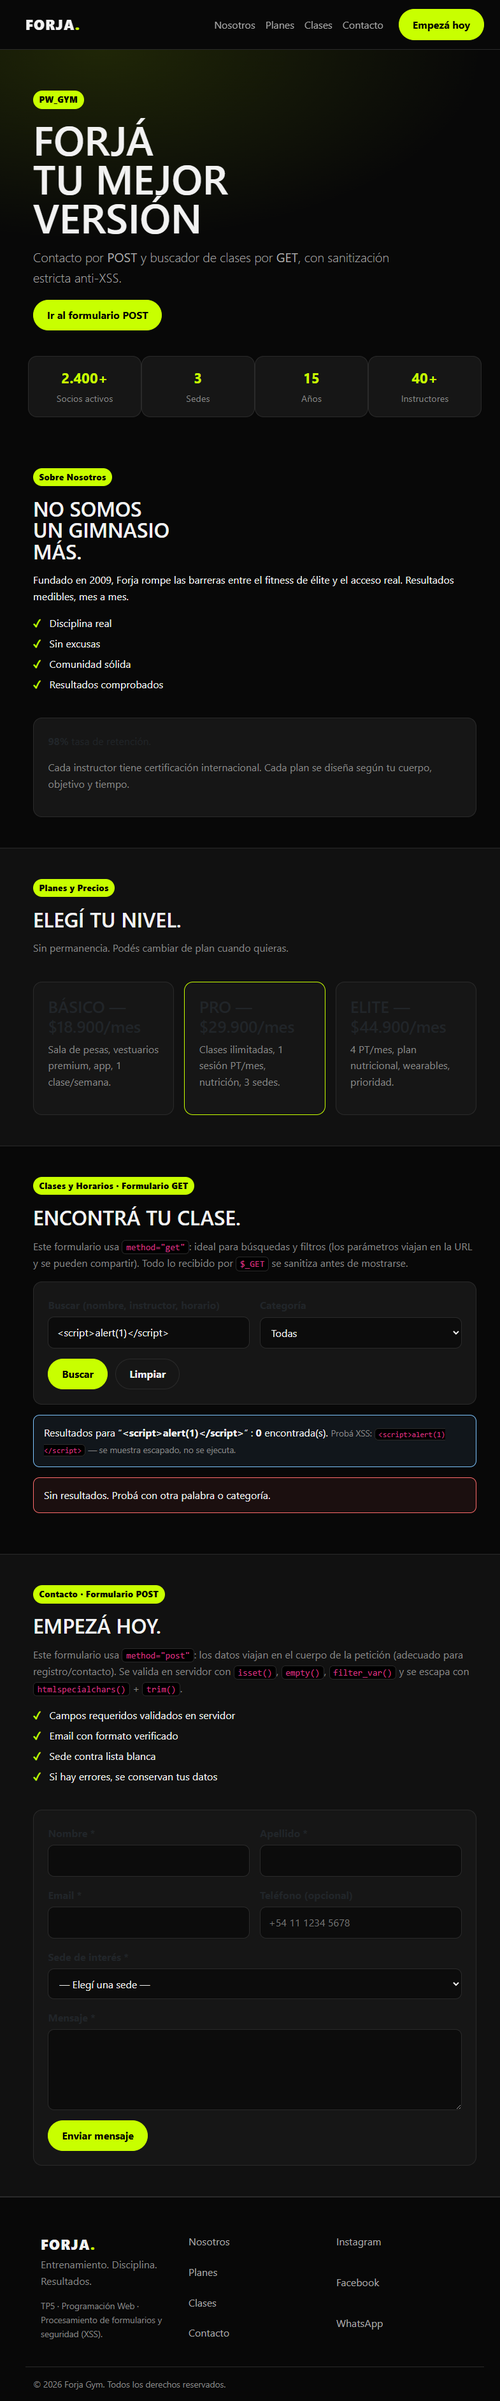
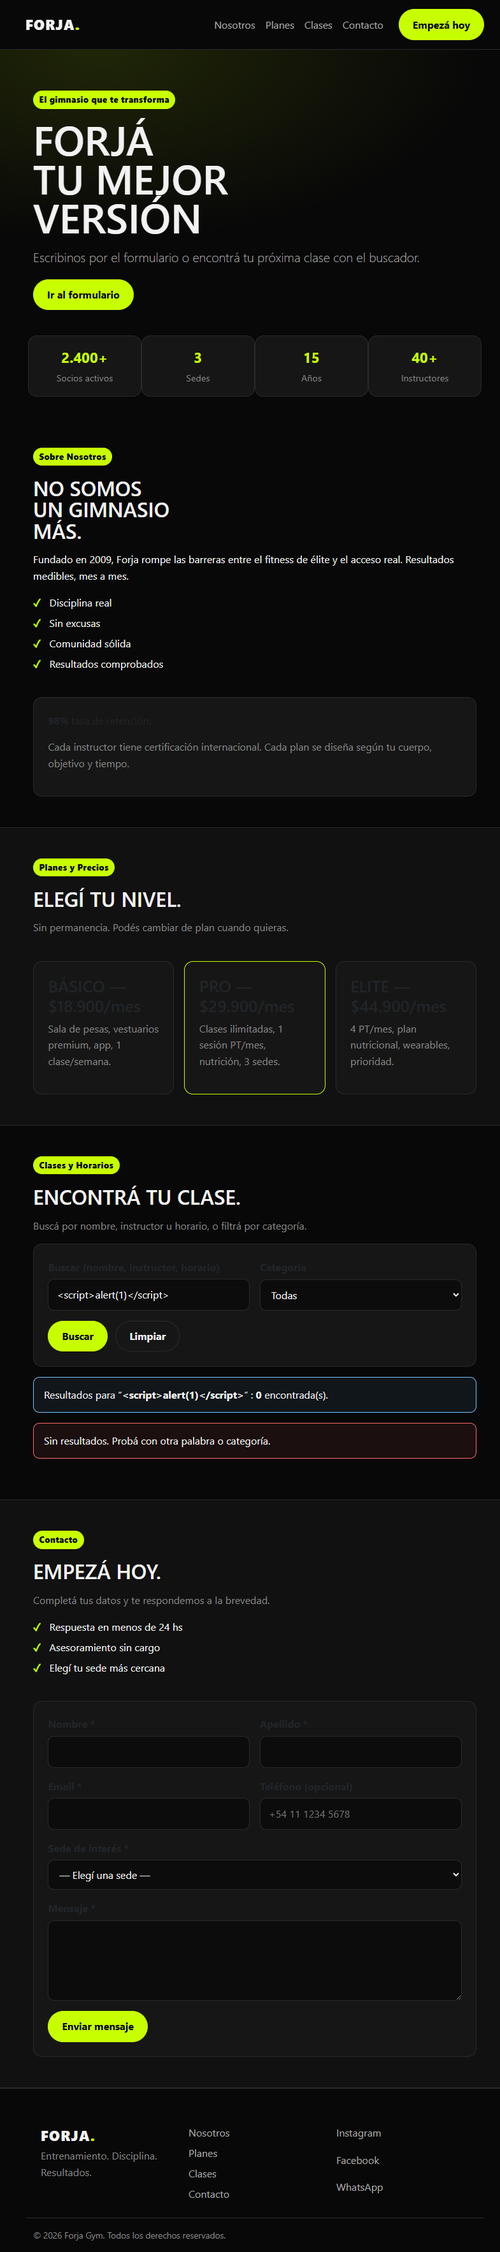
fix: textos solo para cliente, filtro de clases funcional y cercas html

diff --git a/index.html b/index.html
@@ -1,1 +1,1 @@
-```html<!DOCTYPE html><html lang="es"><head>    <meta charset="UTF-8">    <meta name="viewport" content="width=device-width, initial-scale=1.0">    <title>Forja Gym</title></head><body>    <header>        <div>            <div>                <span>FORJA.</span>            </div>            <nav>                <a href="#nosotros">Nosotros</a>                <a href="#planes">Planes</a>                <a href="#clases">Clases</a>                <a href="#sedes">Sedes</a>                <a href="#contacto">Contacto</a>                <button>Empezá hoy</button>            </nav>            <button>☰</button>        </div>        <nav>            <a href="#nosotros">Nosotros</a>            <a href="#planes">Planes</a>            <a href="#clases">Clases</a>            <a href="#sedes">Sedes</a>            <a href="#contacto">Contacto</a>            <button>Empezá hoy</button>        </nav>    </header>    <main>        <section id="inicio">            <div>                <span>El gimnasio que te transforma</span>                <h1>                    FORJÁ<br>                    TU<br>                    MEJOR<br>                    VERSIÓN                </h1>                <p>                    Más de 15 años construyendo atletas.                    Entrenamiento de élite, nutrición personalizada                    y tecnología al servicio de tu progreso.                </p>                <div>                    <button>Empezá hoy</button>                    <button>Ver planes</button>                </div>                <div>                    <div>                        <strong>2.400+</strong>                        <span>Socios activos</span>                    </div>                    <div>                        <strong>3</strong>                        <span>Sedes</span>                    </div>                    <div>                        <strong>15</strong>                        <span>Años de experiencia</span>                    </div>                    <div>                        <strong>40+</strong>                        <span>Instructores</span>                    </div>                </div>            </div>            <div>                <span>Scroll</span>            </div>        </section>        <section>            <div>                <span>Funcional</span>                <span>CrossFit</span>                <span>Spinning</span>                <span>Boxing</span>                <span>Yoga</span>                <span>Pilates</span>                <span>HIIT</span>                <span>Musculación</span>            </div>        </section>        <section id="nosotros">            <div>                <div>                    <span>Sobre Nosotros</span>                    <h2>                        NO SOMOS<br>                        UN GIMNASIO<br>                        MÁS.                    </h2>                    <p>                        Fundado en 2009, Forja nació con una misión clara:                        romper las barreras entre el fitness de élite y                        el acceso real.                    </p>                    <p>                        No prometemos milagros — entregamos resultados                        medibles, mes a mes.                    </p>                    <p>                        Cada instructor tiene certificación internacional                        y experiencia en competencia. Cada plan está                        diseñado en función de tu cuerpo, tu objetivo                        y tu tiempo.                    </p>                    <ul>                        <li>Disciplina real</li>                        <li>Sin excusas</li>                        <li>Comunidad sólida</li>                        <li>Resultados comprobados</li>                    </ul>                    <button>                        Conocé nuestra historia                    </button>                </div>                <div>                    <img                        src="imagen-atleta.jpg"                        alt="Atleta entrenando"                    >                    <div>                        <strong>98%</strong>                        <span>Tasa de retención</span>                    </div>                </div>            </div>        </section>        <section id="planes">            <div>                <div>                    <span>Planes y Precios</span>                    <h2>                        ELEGÍ<br>                        TU NIVEL.                    </h2>                    <p>                        Sin contratos de permanencia.                        Podés cambiar de plan en cualquier momento.                    </p>                </div>                <article>                    <header>                        <div>                            <h3>BÁSICO</h3>                            <p>Todo lo esencial para comenzar</p>                        </div>                        <div>                            <strong>$18.900</strong>                            <span>/mes</span>                        </div>                    </header>                    <ul>                        <li>Acceso libre sala de pesas</li>                        <li>Vestuarios premium</li>                        <li>App de seguimiento</li>                        <li>1 clase grupal/semana</li>                    </ul>                    <button>                        Elegir Básico                    </button>                </article>                <article>                    <span>Más popular</span>                    <header>                        <div>                            <h3>PRO</h3>                            <p>El plan favorito de nuestros socios</p>                        </div>                        <div>                            <strong>$29.900</strong>                            <span>/mes</span>                        </div>                    </header>                    <ul>                        <li>Todo lo del plan Básico</li>                        <li>Clases grupales ilimitadas</li>                        <li>1 sesión PT/mes</li>                        <li>Asesoría nutricional</li>                        <li>Acceso a las 3 sedes</li>                    </ul>                    <button>                        Elegir Pro                    </button>                </article>                <article>                    <header>                        <div>                            <h3>ELITE</h3>                            <p>Para quienes van en serio</p>                        </div>                        <div>                            <strong>$44.900</strong>                            <span>/mes</span>                        </div>                    </header>                    <ul>                        <li>Todo lo del plan Pro</li>                        <li>4 sesiones PT/mes</li>                        <li>Plan nutricional personalizado</li>                        <li>Integración wearables</li>                        <li>Acceso prioritario</li>                    </ul>                    <button>                        Elegir Elite                    </button>                </article>            </div>        </section>        <section id="clases">            <div>                <span>Clases y Horarios</span>                <h2>                    ENCONTRÁ<br>                    TU CLASE.                </h2>                <div>                    <button>Funcional</button>                    <button>Spinning</button>                    <button>CrossFit</button>                    <button>Yoga</button>                    <button>Boxing</button>                    <button>Pilates</button>                </div>                <div>                    <article>                        <h3>Funcional</h3>                        <p>Lunes - 09:00</p>                        <p>Instructor: Nombre</p>                    </article>                    <article>                        <h3>Funcional</h3>                        <p>Martes - 18:00</p>                        <p>Instructor: Nombre</p>                    </article>                    <article>                        <h3>CrossFit</h3>                        <p>Miércoles - 19:00</p>                        <p>Instructor: Nombre</p>                    </article>                    <article>                        <h3>Spinning</h3>                        <p>Jueves - 18:30</p>                        <p>Instructor: Nombre</p>                    </article>                </div>            </div>        </section>        <section id="sedes">            <div>                <span>Nuestras Sedes</span>                <h2>                    ENCONTRÁ<br>                    TU FORJA.                </h2>                <div>                    <article>                        <h3>Forja Centro</h3>                        <p>                            Dirección de la sede                        </p>                        <p>                            Lunes a Viernes: 06:00 - 23:00                        </p>                        <p>                            Sábados: 08:00 - 20:00                        </p>                        <button>                            Ver ubicación                        </button>                    </article>                    <article>                        <h3>Forja Norte</h3>                        <p>                            Dirección de la sede                        </p>                        <p>                            Lunes a Viernes: 06:00 - 23:00                        </p>                        <p>                            Sábados: 08:00 - 20:00                        </p>                        <button>                            Ver ubicación                        </button>                    </article>                    <article>                        <h3>Forja Sur</h3>                        <p>                            Dirección de la sede                        </p>                        <p>                            Lunes a Viernes: 06:00 - 23:00                        </p>                        <p>                            Sábados: 08:00 - 20:00                        </p>                        <button>                            Ver ubicación                        </button>                    </article>                </div>            </div>        </section>        <section id="contacto">            <div>                <span>Contacto</span>                <h2>                    EMPEZÁ<br>                    HOY.                </h2>                <p>                    Estamos listos para ayudarte a alcanzar                    tus objetivos.                </p>                <form>                    <div>                        <label for="nombre">Nombre</label>                        <input                            type="text"                            id="nombre"                            name="nombre"                        >                    </div>                    <div>                        <label for="email">Email</label>                        <input                            type="email"                            id="email"                            name="email"                        >                    </div>                    <div>                        <label for="telefono">Teléfono</label>                        <input                            type="tel"                            id="telefono"                            name="telefono"                        >                    </div>                    <div>                        <label for="mensaje">Mensaje</label>                        <textarea                            id="mensaje"                            name="mensaje"                        ></textarea>                    </div>                    <button type="submit">                        Enviar mensaje                    </button>                </form>            </div>        </section>    </main>    <footer>        <div>            <div>                <strong>FORJA.</strong>                <p>                    Entrenamiento. Disciplina. Resultados.                </p>            </div>            <nav>                <a href="#nosotros">Nosotros</a>                <a href="#planes">Planes</a>                <a href="#clases">Clases</a>                <a href="#sedes">Sedes</a>                <a href="#contacto">Contacto</a>            </nav>            <div>                <p>Instagram</p>                <p>Facebook</p>                <p>WhatsApp</p>            </div>        </div>        <div>            <p>                © 2026 Forja Gym. Todos los derechos reservados.            </p>        </div>    </footer></body></html>```
+<!DOCTYPE html><html lang="es"><head>    <meta charset="UTF-8">    <meta name="viewport" content="width=device-width, initial-scale=1.0">    <title>Forja Gym</title></head><body>    <header>        <div>            <div>                <span>FORJA.</span>            </div>            <nav>                <a href="#nosotros">Nosotros</a>                <a href="#planes">Planes</a>                <a href="#clases">Clases</a>                <a href="#sedes">Sedes</a>                <a href="#contacto">Contacto</a>                <button>Empezá hoy</button>            </nav>            <button>☰</button>        </div>        <nav>            <a href="#nosotros">Nosotros</a>            <a href="#planes">Planes</a>            <a href="#clases">Clases</a>            <a href="#sedes">Sedes</a>            <a href="#contacto">Contacto</a>            <button>Empezá hoy</button>        </nav>    </header>    <main>        <section id="inicio">            <div>                <span>El gimnasio que te transforma</span>                <h1>                    FORJÁ<br>                    TU<br>                    MEJOR<br>                    VERSIÓN                </h1>                <p>                    Más de 15 años construyendo atletas.                    Entrenamiento de élite, nutrición personalizada                    y tecnología al servicio de tu progreso.                </p>                <div>                    <button>Empezá hoy</button>                    <button>Ver planes</button>                </div>                <div>                    <div>                        <strong>2.400+</strong>                        <span>Socios activos</span>                    </div>                    <div>                        <strong>3</strong>                        <span>Sedes</span>                    </div>                    <div>                        <strong>15</strong>                        <span>Años de experiencia</span>                    </div>                    <div>                        <strong>40+</strong>                        <span>Instructores</span>                    </div>                </div>            </div>            <div>                <span>Scroll</span>            </div>        </section>        <section>            <div>                <span>Funcional</span>                <span>CrossFit</span>                <span>Spinning</span>                <span>Boxing</span>                <span>Yoga</span>                <span>Pilates</span>                <span>HIIT</span>                <span>Musculación</span>            </div>        </section>        <section id="nosotros">            <div>                <div>                    <span>Sobre Nosotros</span>                    <h2>                        NO SOMOS<br>                        UN GIMNASIO<br>                        MÁS.                    </h2>                    <p>                        Fundado en 2009, Forja nació con una misión clara:                        romper las barreras entre el fitness de élite y                        el acceso real.                    </p>                    <p>                        No prometemos milagros — entregamos resultados                        medibles, mes a mes.                    </p>                    <p>                        Cada instructor tiene certificación internacional                        y experiencia en competencia. Cada plan está                        diseñado en función de tu cuerpo, tu objetivo                        y tu tiempo.                    </p>                    <ul>                        <li>Disciplina real</li>                        <li>Sin excusas</li>                        <li>Comunidad sólida</li>                        <li>Resultados comprobados</li>                    </ul>                    <button>                        Conocé nuestra historia                    </button>                </div>                <div>                    <img                        src="imagen-atleta.jpg"                        alt="Atleta entrenando"                    >                    <div>                        <strong>98%</strong>                        <span>Tasa de retención</span>                    </div>                </div>            </div>        </section>        <section id="planes">            <div>                <div>                    <span>Planes y Precios</span>                    <h2>                        ELEGÍ<br>                        TU NIVEL.                    </h2>                    <p>                        Sin contratos de permanencia.                        Podés cambiar de plan en cualquier momento.                    </p>                </div>                <article>                    <header>                        <div>                            <h3>BÁSICO</h3>                            <p>Todo lo esencial para comenzar</p>                        </div>                        <div>                            <strong>$18.900</strong>                            <span>/mes</span>                        </div>                    </header>                    <ul>                        <li>Acceso libre sala de pesas</li>                        <li>Vestuarios premium</li>                        <li>App de seguimiento</li>                        <li>1 clase grupal/semana</li>                    </ul>                    <button>                        Elegir Básico                    </button>                </article>                <article>                    <span>Más popular</span>                    <header>                        <div>                            <h3>PRO</h3>                            <p>El plan favorito de nuestros socios</p>                        </div>                        <div>                            <strong>$29.900</strong>                            <span>/mes</span>                        </div>                    </header>                    <ul>                        <li>Todo lo del plan Básico</li>                        <li>Clases grupales ilimitadas</li>                        <li>1 sesión PT/mes</li>                        <li>Asesoría nutricional</li>                        <li>Acceso a las 3 sedes</li>                    </ul>                    <button>                        Elegir Pro                    </button>                </article>                <article>                    <header>                        <div>                            <h3>ELITE</h3>                            <p>Para quienes van en serio</p>                        </div>                        <div>                            <strong>$44.900</strong>                            <span>/mes</span>                        </div>                    </header>                    <ul>                        <li>Todo lo del plan Pro</li>                        <li>4 sesiones PT/mes</li>                        <li>Plan nutricional personalizado</li>                        <li>Integración wearables</li>                        <li>Acceso prioritario</li>                    </ul>                    <button>                        Elegir Elite                    </button>                </article>            </div>        </section>        <section id="clases">            <div>                <span>Clases y Horarios</span>                <h2>                    ENCONTRÁ<br>                    TU CLASE.                </h2>                <div>                    <button>Funcional</button>                    <button>Spinning</button>                    <button>CrossFit</button>                    <button>Yoga</button>                    <button>Boxing</button>                    <button>Pilates</button>                </div>                <div>                    <article>                        <h3>Funcional</h3>                        <p>Lunes - 09:00</p>                        <p>Instructor: Nombre</p>                    </article>                    <article>                        <h3>Funcional</h3>                        <p>Martes - 18:00</p>                        <p>Instructor: Nombre</p>                    </article>                    <article>                        <h3>CrossFit</h3>                        <p>Miércoles - 19:00</p>                        <p>Instructor: Nombre</p>                    </article>                    <article>                        <h3>Spinning</h3>                        <p>Jueves - 18:30</p>                        <p>Instructor: Nombre</p>                    </article>                </div>            </div>        </section>        <section id="sedes">            <div>                <span>Nuestras Sedes</span>                <h2>                    ENCONTRÁ<br>                    TU FORJA.                </h2>                <div>                    <article>                        <h3>Forja Centro</h3>                        <p>                            Dirección de la sede                        </p>                        <p>                            Lunes a Viernes: 06:00 - 23:00                        </p>                        <p>                            Sábados: 08:00 - 20:00                        </p>                        <button>                            Ver ubicación                        </button>                    </article>                    <article>                        <h3>Forja Norte</h3>                        <p>                            Dirección de la sede                        </p>                        <p>                            Lunes a Viernes: 06:00 - 23:00                        </p>                        <p>                            Sábados: 08:00 - 20:00                        </p>                        <button>                            Ver ubicación                        </button>                    </article>                    <article>                        <h3>Forja Sur</h3>                        <p>                            Dirección de la sede                        </p>                        <p>                            Lunes a Viernes: 06:00 - 23:00                        </p>                        <p>                            Sábados: 08:00 - 20:00                        </p>                        <button>                            Ver ubicación                        </button>                    </article>                </div>            </div>        </section>        <section id="contacto">            <div>                <span>Contacto</span>                <h2>                    EMPEZÁ<br>                    HOY.                </h2>                <p>                    Estamos listos para ayudarte a alcanzar                    tus objetivos.                </p>                <form>                    <div>                        <label for="nombre">Nombre</label>                        <input                            type="text"                            id="nombre"                            name="nombre"                        >                    </div>                    <div>                        <label for="email">Email</label>                        <input                            type="email"                            id="email"                            name="email"                        >                    </div>                    <div>                        <label for="telefono">Teléfono</label>                        <input                            type="tel"                            id="telefono"                            name="telefono"                        >                    </div>                    <div>                        <label for="mensaje">Mensaje</label>                        <textarea                            id="mensaje"                            name="mensaje"                        ></textarea>                    </div>                    <button type="submit">                        Enviar mensaje                    </button>                </form>            </div>        </section>    </main>    <footer>        <div>            <div>                <strong>FORJA.</strong>                <p>                    Entrenamiento. Disciplina. Resultados.                </p>            </div>            <nav>                <a href="#nosotros">Nosotros</a>                <a href="#planes">Planes</a>                <a href="#clases">Clases</a>                <a href="#sedes">Sedes</a>                <a href="#contacto">Contacto</a>            </nav>            <div>                <p>Instagram</p>                <p>Facebook</p>                <p>WhatsApp</p>            </div>        </div>        <div>            <p>                © 2026 Forja Gym. Todos los derechos reservados.            </p>        </div>    </footer></body></html>

diff --git a/js/main.js b/js/main.js
@@ -6,6 +6,16 @@ document.addEventListener("click", function (e) {
   }
 });
 
+const filtro = document.getElementById("filtro");
+if (filtro) {
+  filtro.addEventListener("change", function () {
+    const valor = filtro.value;
+    document.querySelectorAll("[data-categoria]").forEach(function (el) {
+      el.style.display = valor === "" || el.getAttribute("data-categoria") === valor ? "" : "none";
+    });
+  });
+}
+
 const header = document.querySelector("header");
 window.addEventListener("scroll", function () {
   if (header) {

diff --git a/clases.php b/clases.php
@@ -28,14 +28,14 @@ require_once 'includes/header.php';
             </div>
         </div>
         <div class="cards-grid row g-3">
-            <div class="col-md-6"><article class="card h-100"><h3>Funcional AM</h3><p><strong>Categoría:</strong> Funcional</p><p><strong>Horario:</strong> Lunes 09:00</p><p class="muted">Instructor: Lucía Gómez</p></article></div>
-            <div class="col-md-6"><article class="card h-100"><h3>Funcional PM</h3><p><strong>Categoría:</strong> Funcional</p><p><strong>Horario:</strong> Martes 18:00</p><p class="muted">Instructor: Marco Ruiz</p></article></div>
-            <div class="col-md-6"><article class="card h-100"><h3>WOD CrossFit</h3><p><strong>Categoría:</strong> CrossFit</p><p><strong>Horario:</strong> Miércoles 19:00</p><p class="muted">Instructor: Diego Torres</p></article></div>
-            <div class="col-md-6"><article class="card h-100"><h3>Spinning Night</h3><p><strong>Categoría:</strong> Spinning</p><p><strong>Horario:</strong> Jueves 18:30</p><p class="muted">Instructor: Carla Méndez</p></article></div>
-            <div class="col-md-6"><article class="card h-100"><h3>Yoga Flow</h3><p><strong>Categoría:</strong> Yoga</p><p><strong>Horario:</strong> Viernes 08:00</p><p class="muted">Instructor: Ana Sosa</p></article></div>
-            <div class="col-md-6"><article class="card h-100"><h3>Boxing Fit</h3><p><strong>Categoría:</strong> Boxing</p><p><strong>Horario:</strong> Lunes 20:00</p><p class="muted">Instructor: Pablo Ríos</p></article></div>
-            <div class="col-md-6"><article class="card h-100"><h3>Pilates Core</h3><p><strong>Categoría:</strong> Pilates</p><p><strong>Horario:</strong> Miércoles 10:00</p><p class="muted">Instructor: Sofía Díaz</p></article></div>
-            <div class="col-md-6"><article class="card h-100"><h3>HIIT Express</h3><p><strong>Categoría:</strong> Funcional</p><p><strong>Horario:</strong> Sábado 10:00</p><p class="muted">Instructor: Marco Ruiz</p></article></div>
+            <div class="col-md-6" data-categoria="Funcional"><article class="card h-100"><h3>Funcional AM</h3><p><strong>Categoría:</strong> Funcional</p><p><strong>Horario:</strong> Lunes 09:00</p><p class="muted">Instructor: Lucía Gómez</p></article></div>
+            <div class="col-md-6" data-categoria="Funcional"><article class="card h-100"><h3>Funcional PM</h3><p><strong>Categoría:</strong> Funcional</p><p><strong>Horario:</strong> Martes 18:00</p><p class="muted">Instructor: Marco Ruiz</p></article></div>
+            <div class="col-md-6" data-categoria="CrossFit"><article class="card h-100"><h3>WOD CrossFit</h3><p><strong>Categoría:</strong> CrossFit</p><p><strong>Horario:</strong> Miércoles 19:00</p><p class="muted">Instructor: Diego Torres</p></article></div>
+            <div class="col-md-6" data-categoria="Spinning"><article class="card h-100"><h3>Spinning Night</h3><p><strong>Categoría:</strong> Spinning</p><p><strong>Horario:</strong> Jueves 18:30</p><p class="muted">Instructor: Carla Méndez</p></article></div>
+            <div class="col-md-6" data-categoria="Yoga"><article class="card h-100"><h3>Yoga Flow</h3><p><strong>Categoría:</strong> Yoga</p><p><strong>Horario:</strong> Viernes 08:00</p><p class="muted">Instructor: Ana Sosa</p></article></div>
+            <div class="col-md-6" data-categoria="Boxing"><article class="card h-100"><h3>Boxing Fit</h3><p><strong>Categoría:</strong> Boxing</p><p><strong>Horario:</strong> Lunes 20:00</p><p class="muted">Instructor: Pablo Ríos</p></article></div>
+            <div class="col-md-6" data-categoria="Pilates"><article class="card h-100"><h3>Pilates Core</h3><p><strong>Categoría:</strong> Pilates</p><p><strong>Horario:</strong> Miércoles 10:00</p><p class="muted">Instructor: Sofía Díaz</p></article></div>
+            <div class="col-md-6" data-categoria="Funcional"><article class="card h-100"><h3>HIIT Express</h3><p><strong>Categoría:</strong> Funcional</p><p><strong>Horario:</strong> Sábado 10:00</p><p class="muted">Instructor: Marco Ruiz</p></article></div>
         </div>
     </div>
 </section>

diff --git a/clase5/index.php b/clase5/index.php
@@ -34,17 +34,17 @@ if ($cat !== '' && !in_array($cat, categorias_validas(), true)) {
 $hubo_busqueda = isset($_GET['q']) || isset($_GET['cat']);
 $resultados = filtrar_clases($clases, $q, $cat);
 
-$titulo_pagina = 'Forja Gym · Contacto y Clases (TP5)';
+$titulo_pagina = 'Forja Gym · Contacto y Clases';
 require __DIR__ . '/includes/header.php';
 ?>
 
 <section class="hero">
     <div class="container">
-        <span class="kicker">PW_GYM</span>
+        <span class="kicker">El gimnasio que te transforma</span>
         <h1>FORJÁ<br>TU MEJOR<br>VERSIÓN</h1>
-        <p class="lead">Contacto por <strong>POST</strong> y buscador de clases por <strong>GET</strong>, con sanitización estricta anti-XSS.</p>
+        <p class="lead">Escribinos por el formulario o encontrá tu próxima clase con el buscador.</p>
         <div class="hero-actions">
-            <a class="btn btn-primary" href="#contacto">Ir al formulario POST</a>
+            <a class="btn btn-primary" href="#contacto">Ir al formulario</a>
         </div>
         <div class="stats row g-3" aria-hidden="true">
             <div class="col-6 col-md-3"><strong>2.400+</strong><span>Socios activos</span></div>
@@ -94,9 +94,9 @@ require __DIR__ . '/includes/header.php';
 
 <section id="clases" class="section">
     <div class="container">
-        <span class="kicker">Clases y Horarios · Formulario GET</span>
+        <span class="kicker">Clases y Horarios</span>
         <h2>ENCONTRÁ TU CLASE.</h2>
-        <p class="muted">Este formulario usa <code>method="get"</code>: ideal para búsquedas y filtros (los parámetros viajan en la URL y se pueden compartir). Todo lo recibido por <code>$_GET</code> se sanitiza antes de mostrarse.</p>
+        <p class="muted">Buscá por nombre, instructor u horario, o filtrá por categoría.</p>
 
         <form class="card form" method="get" action="index.php#clases" role="search">
             <div class="row g-3">
@@ -127,7 +127,6 @@ require __DIR__ . '/includes/header.php';
                     <?php if ($q !== ''): ?>“<strong><?php echo e($q); ?></strong>”<?php endif; ?>
                     <?php if ($cat !== ''): ?>en categoría <strong><?php echo e($cat); ?></strong><?php endif; ?>:
                     <strong><?php echo count($resultados); ?></strong> encontrada(s).
-                    <span class="muted small">Probá XSS: <code>&lt;script&gt;alert(1)&lt;/script&gt;</code> — se muestra escapado, no se ejecuta.</span>
                 <?php else: ?>
                     Mostrando las <strong><?php echo count($resultados); ?></strong> clases disponibles.
                 <?php endif; ?>
@@ -155,14 +154,13 @@ require __DIR__ . '/includes/header.php';
     <div class="container">
     <div class="row g-4 align-items-start">
         <div class="col-lg-6">
-            <span class="kicker">Contacto · Formulario POST</span>
+            <span class="kicker">Contacto</span>
             <h2>EMPEZÁ HOY.</h2>
-            <p class="muted">Este formulario usa <code>method="post"</code>: los datos viajan en el cuerpo de la petición (adecuado para registro/contacto). Se valida en servidor con <code>isset()</code>, <code>empty()</code>, <code>filter_var()</code> y se escapa con <code>htmlspecialchars()</code> + <code>trim()</code>.</p>
+            <p class="muted">Completá tus datos y te respondemos a la brevedad.</p>
             <ul class="checklist">
-                <li>Campos requeridos validados en servidor</li>
-                <li>Email con formato verificado</li>
-                <li>Sede contra lista blanca</li>
-                <li>Si hay errores, se conservan tus datos</li>
+                <li>Respuesta en menos de 24 hs</li>
+                <li>Asesoramiento sin cargo</li>
+                <li>Elegí tu sede más cercana</li>
             </ul>
         </div>
         <div class="col-lg-6">

diff --git a/contacto.php b/contacto.php
@@ -19,8 +19,8 @@ require_once 'includes/header.php';
             <h3>Escribinos</h3>
             <p class="muted">Email de soporte:</p>
             <p><a class="btn btn-ghost" href="mailto:<?php echo htmlspecialchars(SOPORTE_EMAIL, ENT_QUOTES, 'UTF-8'); ?>"><?php echo htmlspecialchars(SOPORTE_EMAIL, ENT_QUOTES, 'UTF-8'); ?></a></p>
-            <p class="muted">Formulario con validación y persistencia del lado del servidor:</p>
-            <p><a class="btn btn-primary" href="clase5/index.php#contacto">Ir al formulario POST</a></p>
+            <p class="muted">Dejanos tu consulta y te contactamos:</p>
+            <p><a class="btn btn-primary" href="clase5/index.php#contacto">Ir al formulario</a></p>
             </div>
         </div>
         <div class="col-lg-6">

diff --git a/clase5/includes/footer.php b/clase5/includes/footer.php
@@ -4,7 +4,6 @@
             <div class="col-md-4">
                 <strong class="brand">FORJA<span class="brand-dot">.</span></strong>
                 <p class="muted">Entrenamiento. Disciplina. Resultados.</p>
-                <p class="muted small">TP5 · Programación Web · Procesamiento de formularios y seguridad (XSS).</p>
             </div>
             <nav class="col-md-4" aria-label="Navegación de pie">
                 <a href="index.php#nosotros">Nosotros</a>
